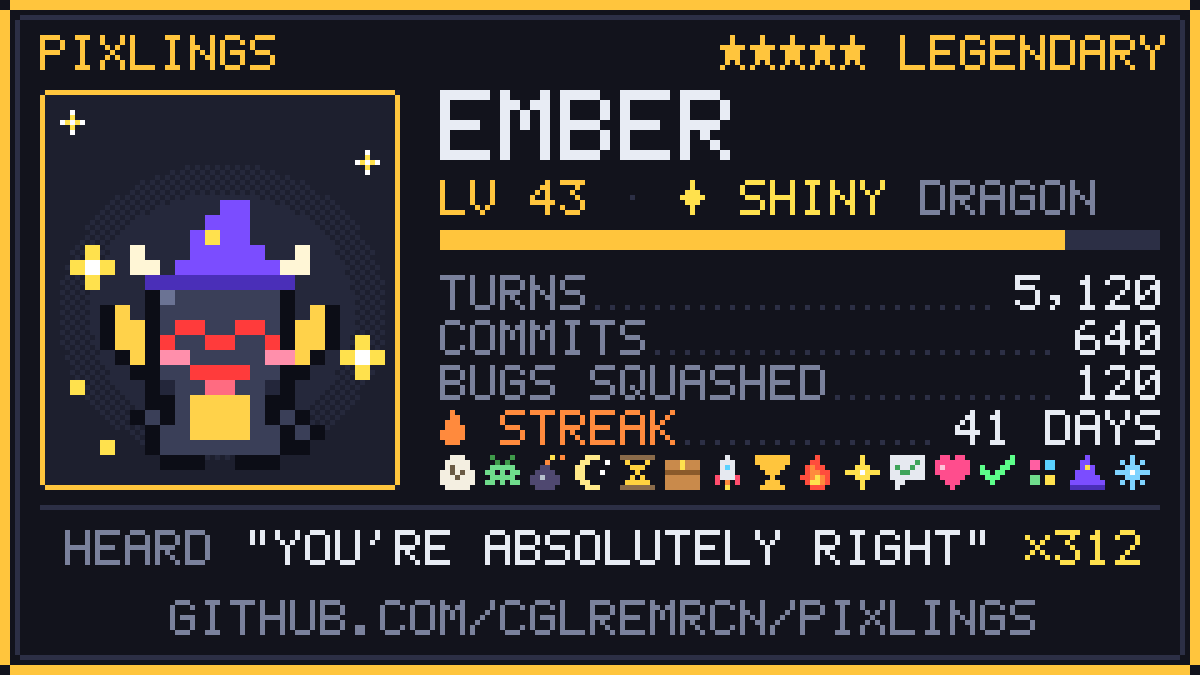
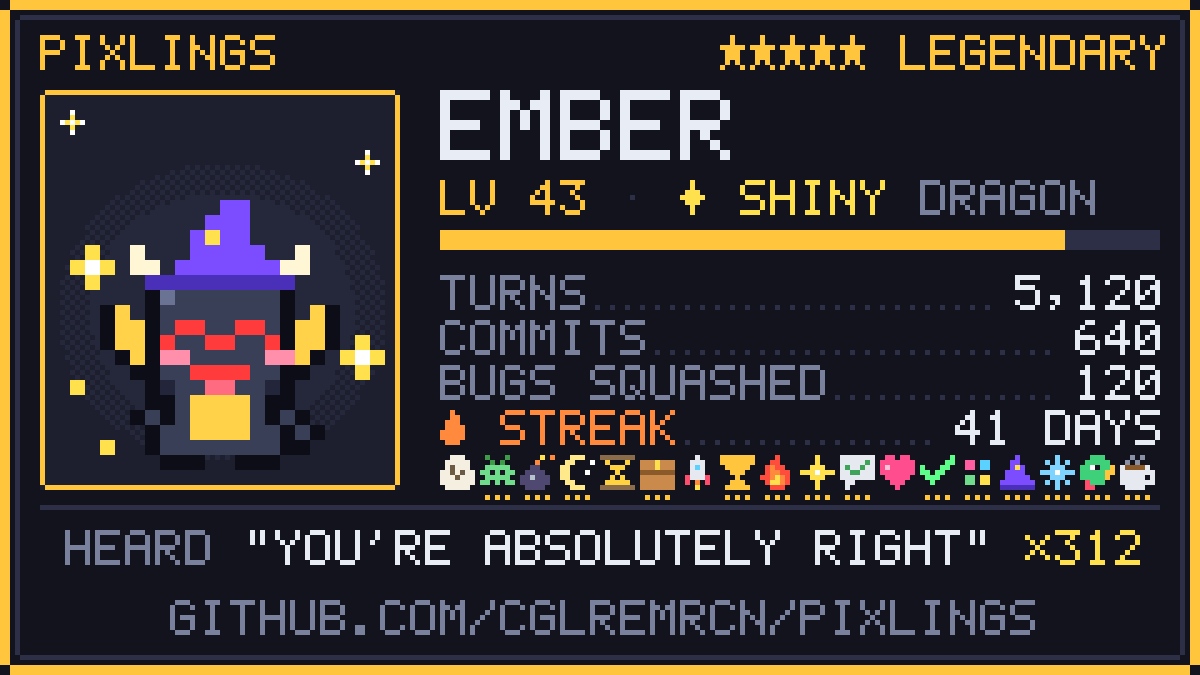
docs: eighteen badges, most in three tiers

Changed region(s): [[0.4008, 0.6533, 0.9867, 0.7467]]

diff --git a/tools/card.ts b/tools/card.ts
@@ -4,6 +4,7 @@
 import { mkdirSync, writeFileSync } from 'node:fs'
 import { join } from 'node:path'
 
+import { BADGES, tierKey } from '../plugins/pixlings/hooks/lib/badges.ts'
 import { CARD_BG, CARD_SCALE, renderCard, shareText } from '../plugins/pixlings/hooks/lib/card.ts'
 import { encodePng } from '../plugins/pixlings/hooks/lib/png.ts'
 import type { Pixling } from '../plugins/pixlings/hooks/lib/progress.ts'
@@ -40,7 +41,7 @@ const samples: Record<string, Pixling> = {
     stats: { ...emptyStats(), turns: 1342, commits: 211, bugsSquashed: 37, testsPassed: 402, prs: 18, pets: 64 },
     streak: { last: '2026-10-03', days: 12, best: 12 },
     dex: ['robot', 'duck', 'blip', 'cat', 'owl'],
-    badges: { hello: 1, exterminator: 2, centurion: 3, onFire: 4, shipper: 5, liftoff: 6, collector: 7, greenThumb: 8, absolutelyRight: 9 },
+    badges: { hello: 1, exterminator: 2, 'exterminator:2': 10, centurion: 3, 'centurion:2': 11, onFire: 4, shipper: 5, liftoff: 6, collector: 7, greenThumb: 8, absolutelyRight: 9, 'absolutelyRight:2': 12 },
     tics: { absolutelyRight: 87, perfect: 40 },
   }),
   legendary: base({
@@ -54,7 +55,8 @@ const samples: Record<string, Pixling> = {
     xp: 26000,
     stats: { ...emptyStats(), turns: 5120, commits: 640, bugsSquashed: 120, testsPassed: 980, prs: 77 },
     streak: { last: '2026-10-03', days: 41, best: 41 },
-    badges: Object.fromEntries(['hello', 'exterminator', 'dangerous', 'nightOwl', 'survivor', 'shipper', 'liftoff', 'centurion', 'onFire', 'lucky', 'absolutelyRight', 'bestFriends', 'greenThumb', 'collector', 'archmage', 'brainFreeze'].map((b, i) => [b, i])),
+    // Every badge, every tier: the shelf all gold.
+    badges: Object.fromEntries(BADGES.flatMap((b, i) => b.steps.map((_, t) => [tierKey(b.id, t + 1), i * 3 + t]))),
     tics: { absolutelyRight: 312 },
   }),
   ghost: base({ species: 'ghost', name: 'Boo', xp: 900, stats: { ...emptyStats(), turns: 220, commits: 31 } }),

diff --git a/CHANGELOG.md b/CHANGELOG.md
@@ -4,6 +4,9 @@
 
 ### New
 
+- **Bronze, silver and gold badges.** Fourteen badges now have three tiers, from Exterminator's 10, 50 and 250 bugs to Centurion's 100, 1,000 and 10,000 turns, and they count across every egg you hatch: the counts behind them carry over, so a new egg never sets them back. Badges you already have are bronze, and higher tiers your record has already passed are awarded the first time the pixling looks, with one celebration. On the share card three pips under a badge show its tier; the room and `/pixling badges` show 🥉🥈🥇.
+- **Two new badges.** Heard It All 🦜 for hearing Claude's tics 50, 250 and 1,000 times, and Regular ☕ for 100, 500 and 2,000 sessions. Eighteen in all, the card spacing its icons a pixel closer to fit them.
+- **Lucky is for laying a shiny egg,** not hatching one, so you needn't give up your pixling to earn it; its tiers are 1, 2 and 4 eggs.
 - **Three new species:** the chonk (common), the mushroom (uncommon) and the octopus (rare), the last of old `/buddy`'s that Pixlings didn't have. Eighteen in all; each wears every piece of gear fitted to it, and shiny, the chonk's gold gear turns copper and the octopus's bow tie red. A wider viking helmet keeps its horns and stretches between them.
 - **Band sizes.** `band` takes `compact` (4 rows) and `slim` (2 rows) alongside `full` and `minimal`. Where the terminal draws images (kitty, Ghostty, iTerm2 3.5+ fullscreen), `compact`, `slim` and `minimal` draw the pixling as a sharp picture. Elsewhere (inside tmux or Zellij, say) `compact` is a bust in half blocks, 6 rows, the pixling without its legs, and `slim` is drawn as `minimal`. A band with fewer rows than its size steps down a size instead of jumping straight to one line.
 - **Autoscale.** `autoscale` (on by default) keeps the band to a sixth of the terminal's rows, stepping down from `band`, now the largest size you'll accept, to the largest that fits: `full` is `compact` on a 24-row terminal and `slim` on 12. Off, the band keeps its size at any height.

diff --git a/README.md b/README.md
@@ -76,11 +76,11 @@ Claude Code doesn't tell a mod how long the cache lives, so Pixlings works it ou
 
 `/pixling share` draws a card, saves it to your home folder as `pixling-<name>.png`, opens it, and puts a post on your clipboard.
 
-<p align="center"><img src="docs/media/card.png" width="80%" alt="A trading card: Ember, a shiny legendary dragon in a wizard hat, level 43, 5,120 turns, 640 commits, 120 bugs squashed, a 41-day streak, all 16 badges, and &quot;You're absolutely right&quot; heard 312 times"></p>
+<p align="center"><img src="docs/media/card.png" width="80%" alt="A trading card: Ember, a shiny legendary dragon in a wizard hat, level 43, 5,120 turns, 640 commits, 120 bugs squashed, a 41-day streak, all 18 badges at gold, and &quot;You're absolutely right&quot; heard 312 times"></p>
 
 ## Badges, streaks and the morning recap
 
-Sixteen badges, each earned once: **Exterminator** for squashing 10 bugs, **Night Owl** for 25 turns after midnight, **Brain Freeze** for letting the cache go cold 10 times, **Absolutely Right** for hearing it 25 times, **On Fire** for a 7-day streak, **Liftoff** for your first pull request, and ten more. `/pixling badges` lists them all with how far along you are.
+Eighteen badges, and fourteen of them come in bronze, silver and gold, counted across every egg you hatch, so a new egg never sets them back: **Exterminator** for squashing 10, 50 and 250 bugs, **Centurion** for 100, 1,000 and 10,000 turns, **On Fire** for a 7-, 30- and 100-day streak, **Lucky** for laying 1, 2 and 4 shiny eggs, **Heard It All** for hearing Claude's tics 50, 250 and 1,000 times, **Regular** for 100, 500 and 2,000 sessions, and twelve more. **Liftoff**, your first pull request, and a few others are earned once. On the card, three pips under a badge show its tier. `/pixling badges` lists them all with how far along you are.
 
 It counts the days in a row you show up, and the first session of the day opens with yesterday: *Yesterday: 41 turns · 6 commits · 2 bugs squashed · +212 XP*.
 

diff --git a/docs/DESIGN.md b/docs/DESIGN.md
@@ -71,8 +71,9 @@ up when it resets. It levels up and it is yours.
     hour-long TTL). A minute before it expires the pixling warns; a cold start is counted.
 11. **Tics.** The visible text of each main-thread response is scanned for "You're absolutely
     right", "Great question" and friends; the pixling rolls its eyes and keeps the count.
-12. **Badges, streak, recap.** 16 badges earned once from the record, a daily streak, and
-    yesterday's work as the first line of the day.
+12. **Badges, streak, recap.** 18 badges, 14 of them in bronze, silver and gold over lifetime
+    counts that outlive a hatch (`Pixling.lifetime`), a daily streak, and yesterday's work as the
+    first line of the day. Tier 1 is stored under the badge's id, so older saves keep theirs.
 13. **`/pixling share`.** A 240×135 card scaled ×5 to 1200×675, encoded to PNG in-process (own
     5×7 font, own deflate), written through a process's standard input, opened, and a post copied.
 14. **Roaming** along the free columns of the band, and an **animalese voice** synthesized per
